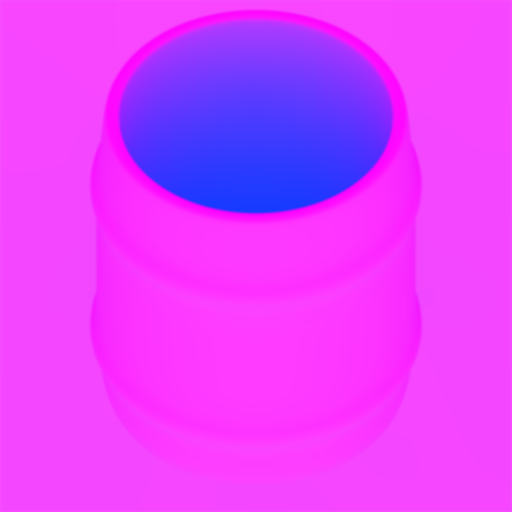
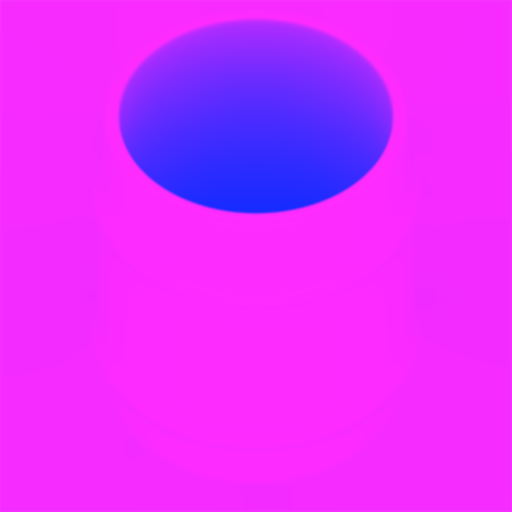
Update example

diff --git a/khafile.js b/khafile.js
@@ -12,8 +12,10 @@ process.defines = [
     "S2D_DEBUG_FPS",
     "S2D_SPRITE_INSTANCING",
     "S2D_LIGHTING",
-    "S2D_LIGHTING_SHADOWS",
+    // "S2D_LIGHTING_VOLUMETRIC",
     "S2D_LIGHTING_DEFERRED",
+    "S2D_LIGHTING_SHADOWS",
+    // "S2D_LIGHTING_SHADOWS_SOFT",
     "S2D_LIGHTING_ENVIRONMENT",
     // "S2D_PP_BLOOM",
     // "S2D_PP_FISHEYE",
